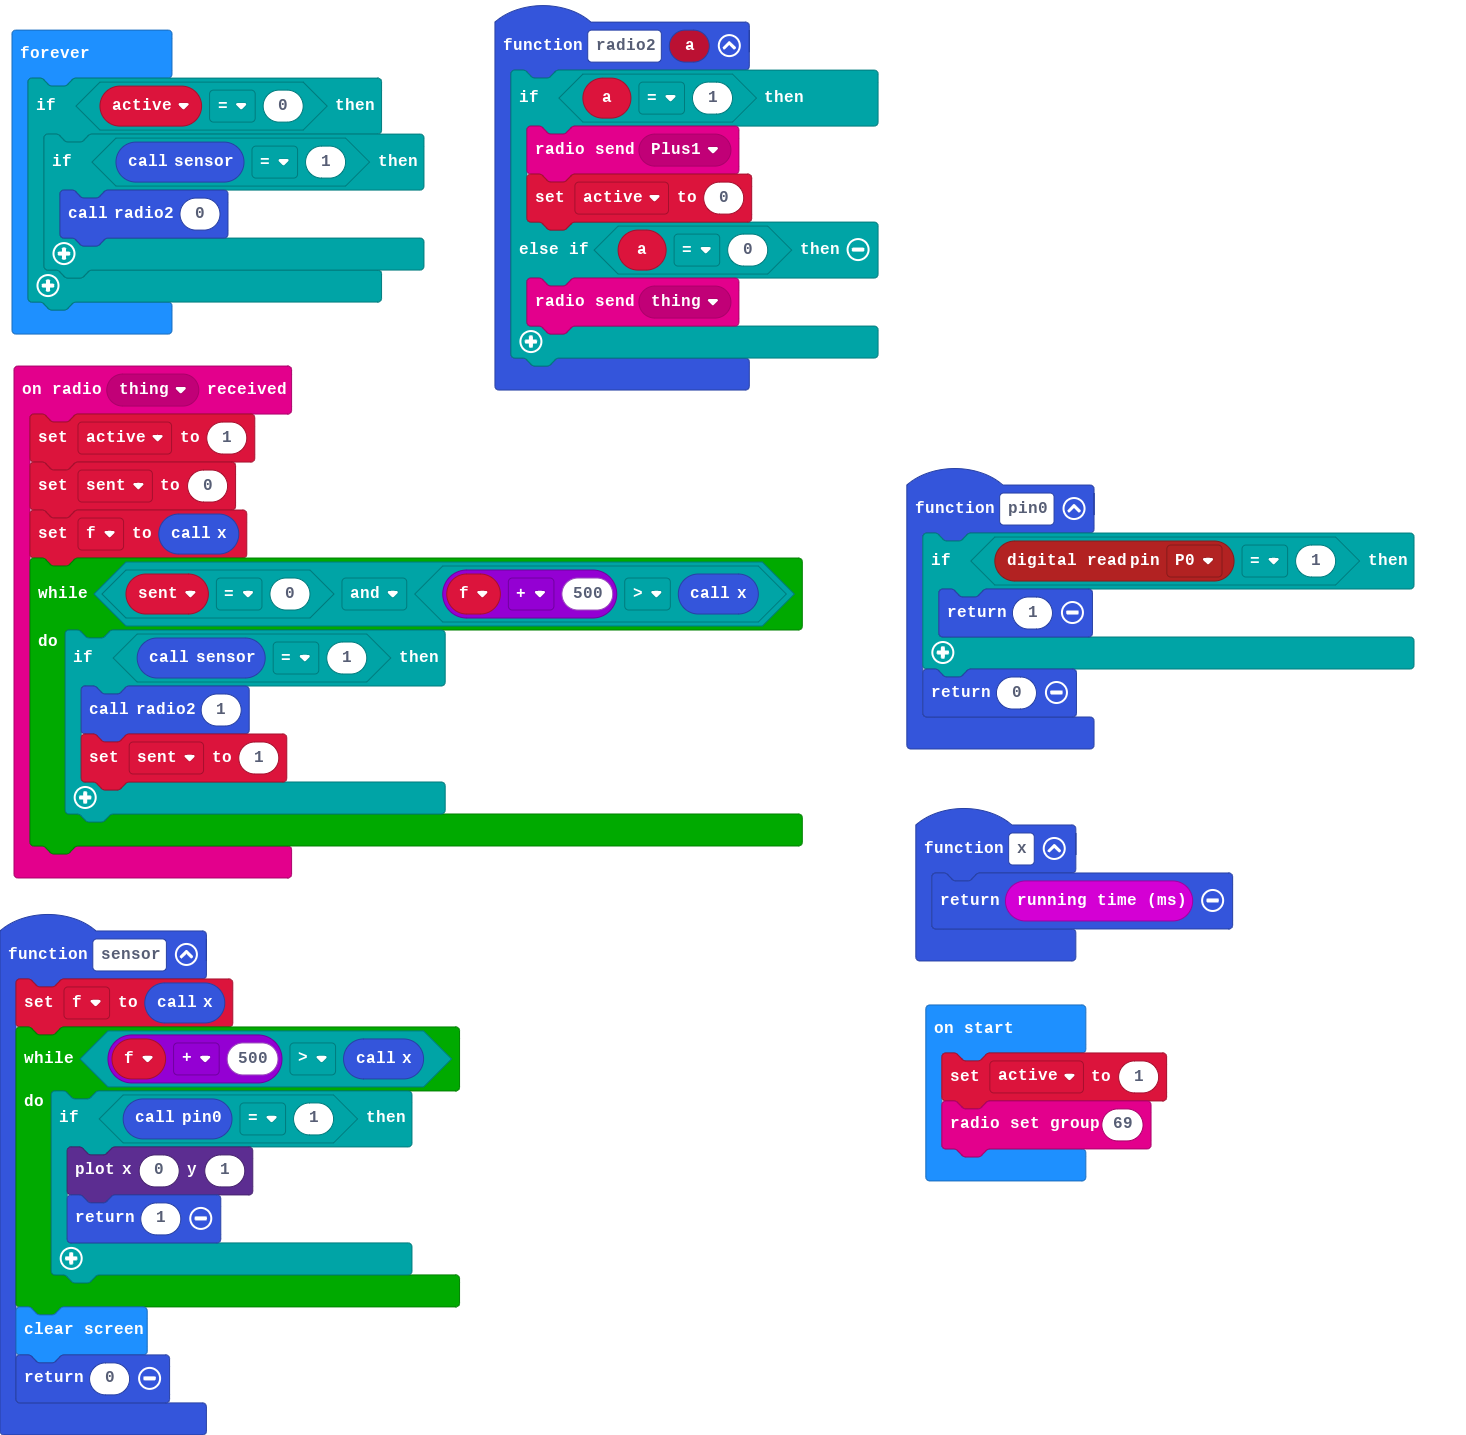
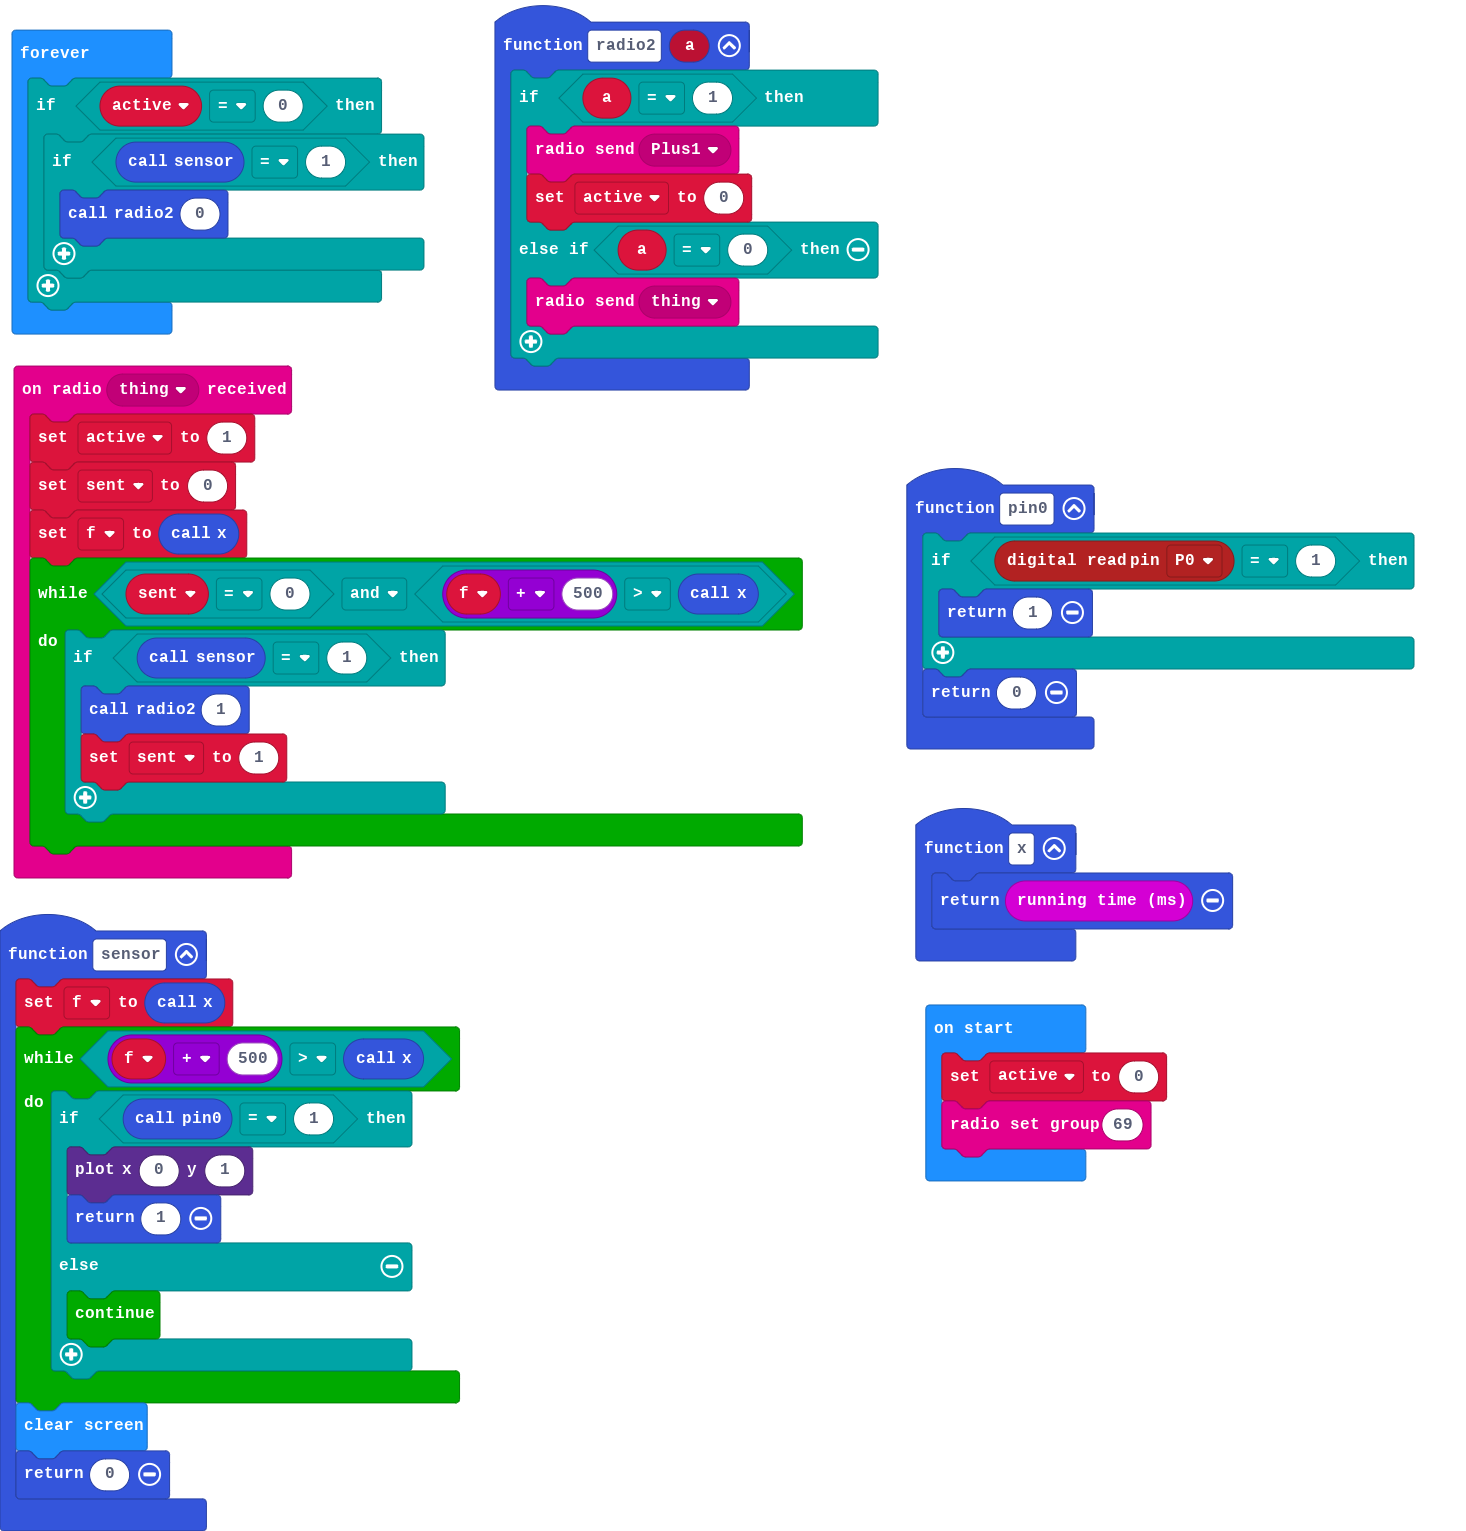
Update main.blocks, main.ts

Changed region(s): [[0.0, 0.0307, 0.5525, 0.9812], [0.6139, 0.3066, 0.9823, 0.8279], [0.3377, 0.0, 0.6139, 0.276]]

diff --git a/main.ts b/main.ts
@@ -29,6 +29,8 @@ function sensor () {
         if (pin0() == 1) {
             led.plot(0, 1)
             return 1
+        } else {
+            continue;
         }
     }
     basic.clearScreen()
@@ -46,7 +48,7 @@ function pin0 () {
 let f = 0
 let sent = 0
 let active = 0
-active = 1
+active = 0
 radio.setGroup(69)
 basic.forever(function () {
     if (active == 0) {
